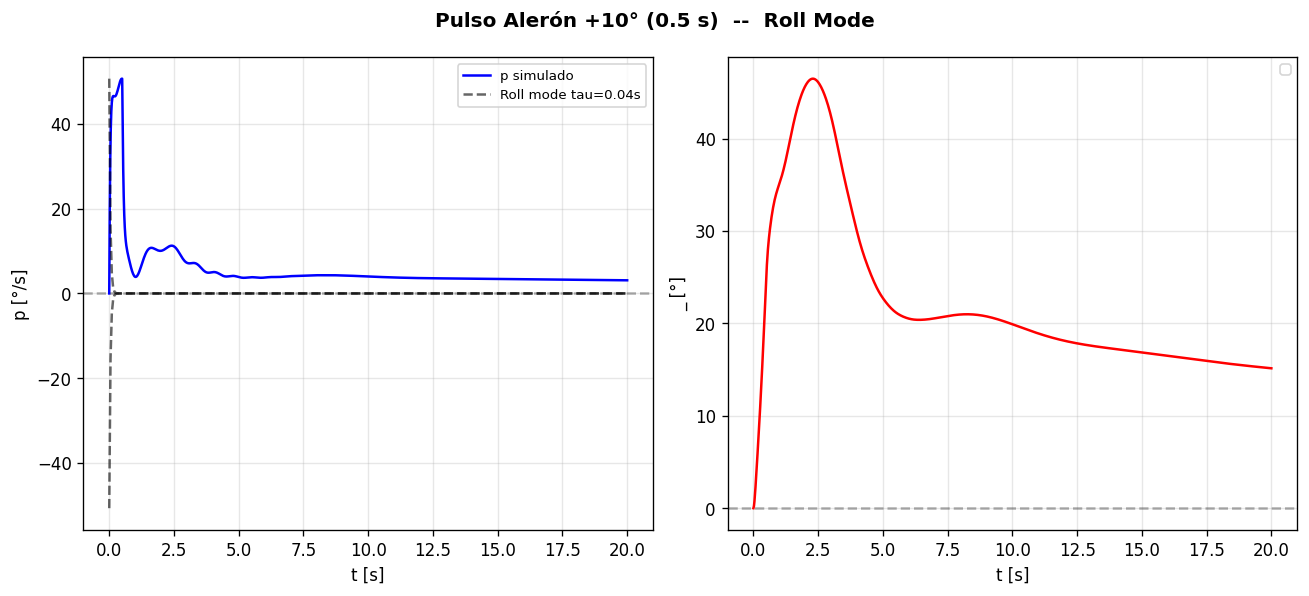
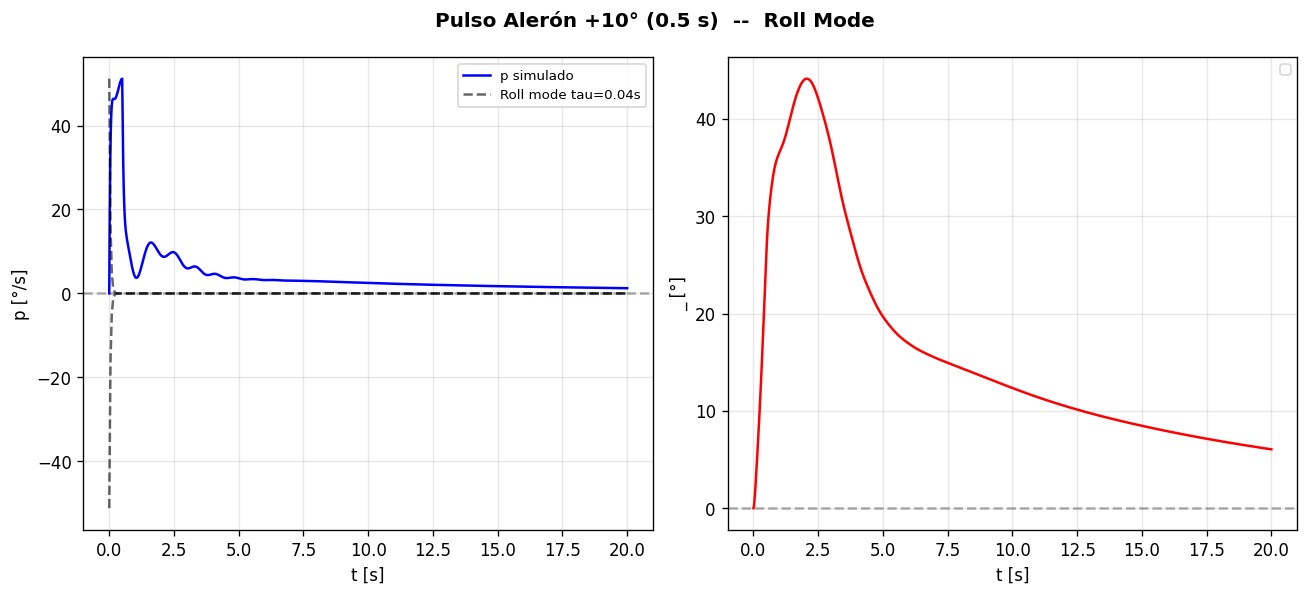
changes in VTOL parameters

diff --git a/aerodynamic_analysis/dynamics_stability/simulink_params.m b/aerodynamic_analysis/dynamics_stability/simulink_params.m
@@ -1,6 +1,6 @@
 %% simulink_params.m
 %% Generado automáticamente por simulink_export.py
-%% Fecha: 2026-06-07 23:02
+%% Fecha: 2026-06-11 13:39
 %% Proyecto: VTOL Caribe -- Universidad Tecnológica de Bolívar
 %%
 %% Uso:
@@ -20,7 +20,7 @@ fprintf('Cargando parámetros VTOL Caribe...\n');
 %% =========================================================================
 %% 1. MASA E INERCIAS
 %% =========================================================================
-mass_kg = 8.5;  % [kg] MTOW [CONFIRMED]
+mass_kg = 10;  % [kg] MTOW [CONFIRMED]
 Ixx = 0.35;  % [kg*m2] inercia roll [PROVISIONAL]
 Iyy = 0.45;  % [kg*m2] inercia pitch [PROVISIONAL]
 Izz = 0.7;  % [kg*m2] inercia yaw [PROVISIONAL]
@@ -62,14 +62,14 @@ CLq = 6.0175314;  % [/rad] lift due to q [DERIVED]
 V0 = 19.34;  % [m/s] velocidad crucero [CONFIRMED]
 rho = 1.225;  % [kg/m3] densidad ISA [CONFIRMED]
 g = 9.81;  % [m/s2]
-alpha0_deg = 3.9839962;  % [°] AoA trim [DERIVED]
-alpha0_rad = 0.069533851;  % [rad] AoA trim [DERIVED]
-de0_deg = -15.033016;  % [°] elevador trim [DERIVED]
-de0_rad = -0.26237563;  % [rad] elevador trim [DERIVED]
-CL0_trim = 0.64192729;  % [-] CL en trim [DERIVED]
-CD0_trim = 0.032023767;  % [-] CD en trim [DERIVED]
-LD_trim = 20.04534;  % [-] L/D en trim [DERIVED]
-T_trim = 4.1598197;  % [N] empuje de trim [DERIVED]
+alpha0_deg = 5.3950649;  % [°] AoA trim [DERIVED]
+alpha0_rad = 0.094161647;  % [rad] AoA trim [DERIVED]
+de0_deg = -18.5898;  % [°] elevador trim [DERIVED]
+de0_rad = -0.32445322;  % [rad] elevador trim [DERIVED]
+CL0_trim = 0.75520858;  % [-] CL en trim [DERIVED]
+CD0_trim = 0.03894639;  % [-] CD en trim [DERIVED]
+LD_trim = 19.390978;  % [-] L/D en trim [DERIVED]
+T_trim = 5.0590539;  % [N] empuje de trim [DERIVED]
 x_NP = 0.56115536;  % [m] punto neutro [DERIVED]
 SM_pct = 59.982286;  % [%MAC] margen estático [DERIVED]
 
@@ -90,37 +90,37 @@ IC_euler    = [phi0; theta0; psi0];
 %% =========================================================================
 %% Sistema longitudinal:  x_lon = [Deltau, Deltaw, Deltaq, Deltatheta]
 %%                        u_lon = [Deltadeltae]
-A_lon = [-0.02212507  +0.25484380  +0.00000000  -9.81000000;
-  -1.01447777  -4.49460125  +19.26951500  +0.00000000;
+A_lon = [-0.01880631  +0.25484380  +0.00000000  -9.81000000;
+  -1.01447777  -3.82041106  +19.28907459  +0.00000000;
   +0.00000000  -12.83279144  -8.94023860  +0.00000000;
   +0.00000000  +0.00000000  +1.00000000  +0.00000000];
 B_lon = [+0.00000000;
-  -6.59834117;
+  -5.60858999;
   -98.46191324;
   +0.00000000];
 
 %% Sistema lateral-direccional:  x_lat = [Deltabeta, Deltap, Deltar, Delta_]
 %%                               u_lat = [Deltadeltaa, Deltadeltar]
-A_lat = [-0.33187611  +0.00000000  -1.00000000  +0.50723888;
+A_lat = [-0.28209469  +0.00000000  -1.00000000  +0.50723888;
   -37.68153996  -24.45227460  +6.82574856  +0.00000000;
   +25.58924675  -3.09766095  -0.92966143  +0.00000000;
   +0.00000000  +1.00000000  +0.00000000  +0.00000000];
-B_lat = [+0.00000000  +0.07506721;
+B_lat = [+0.00000000  +0.06380713;
   +126.39500016  +16.36734637;
   +2.10088327  -24.67316393;
   +0.00000000  +0.00000000];
 
 %% Eigenvalores longitudinales
-eig_lon(1) = -6.723791 + 15.564075i;
-eig_lon(2) = -6.723791 + -15.564075i;
-eig_lon(3) = -0.004691 + 0.666537i;
-eig_lon(4) = -0.004691 + -0.666537i;
+eig_lon(1) = -6.386502 + 15.519772i;
+eig_lon(2) = -6.386502 + -15.519772i;
+eig_lon(3) = -0.003226 + 0.673373i;
+eig_lon(4) = -0.003226 + -0.673373i;
 
 %% Eigenvalores laterales
-eig_lat(1) = -23.816946 + 0.000000i;
-eig_lat(2) = -0.993641 + 5.648353i;
-eig_lat(3) = -0.993641 + -5.648353i;
-eig_lat(4) = 0.090415 + 0.000000i;
+eig_lat(1) = -23.816355 + 0.000000i;
+eig_lat(2) = -0.969177 + 5.644209i;
+eig_lat(3) = -0.969177 + -5.644209i;
+eig_lat(4) = 0.090679 + 0.000000i;
 
 %% =========================================================================
 %% 6. TABLAS DE LOOKUP CL(alpha), CD(alpha), Cm(alpha)

diff --git a/aerodynamic_analysis/dynamics_stability/parameters.py b/aerodynamic_analysis/dynamics_stability/parameters.py
@@ -47,7 +47,7 @@ class MassProperties:
     Inercias marcadas [PROVISIONAL]: deben sustituirse con valores CAD NX
     una vez se cierre el diseño detallado de la estructura.
     """
-    m:   float = 8.5    # [kg] MTOW [CONFIRMED -- especificación de diseño]
+    m:   float = 10.0   # [kg] MTOW [CONFIRMED -- especificación de diseño]
     x_cg: float = 0.41  # [m] posición CG desde el morro [CONFIRMED -- sizing]
 
     # Momentos de inercia [PROVISIONAL -- estimados por fórmulas Roskam para UAVs]
@@ -322,7 +322,7 @@ class AircraftConfig:
         rho = self.atm.rho
         g   = self.atm.g
         self.V_cruise = 19.34   # [m/s] velocidad crucero [CONFIRMED]
-        self.V_stall  = 11.11   # [m/s] velocidad pérdida [CONFIRMED]
+        self.V_stall  = 12.05   # [m/s] velocidad pérdida [DERIVED: V_stall*sqrt(10/8.5)]
 
         # Presión dinámica en crucero
         self.q_cruise = 0.5 * rho * self.V_cruise**2   # [Pa] [DERIVED]
